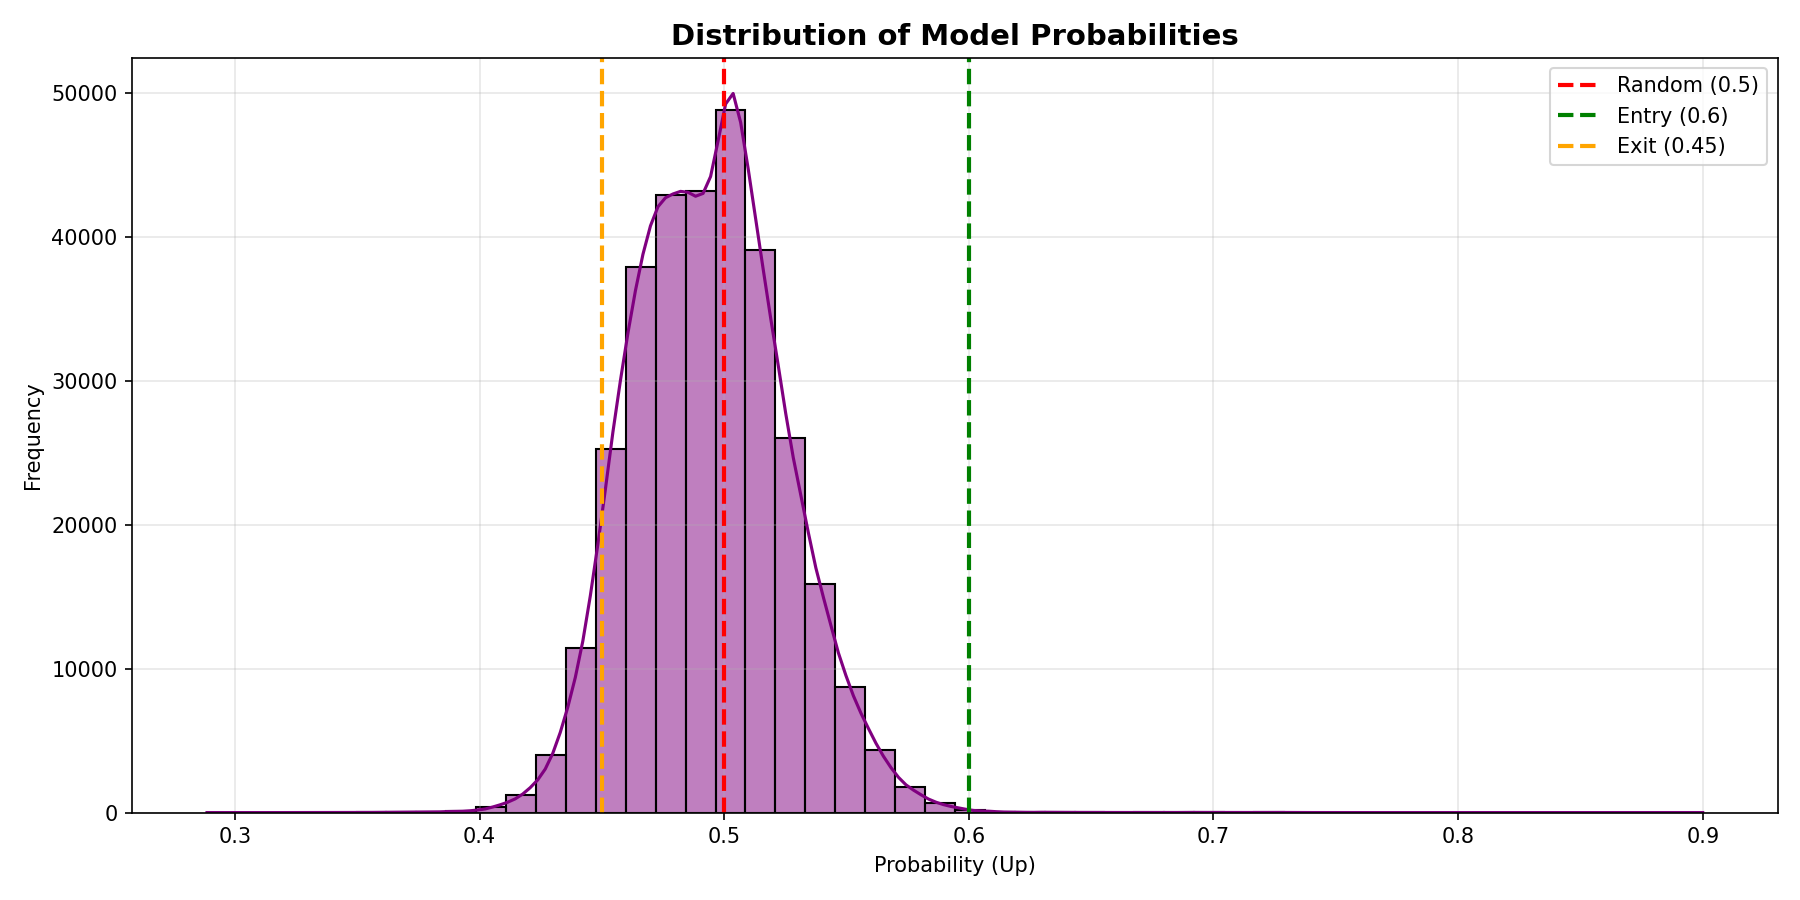
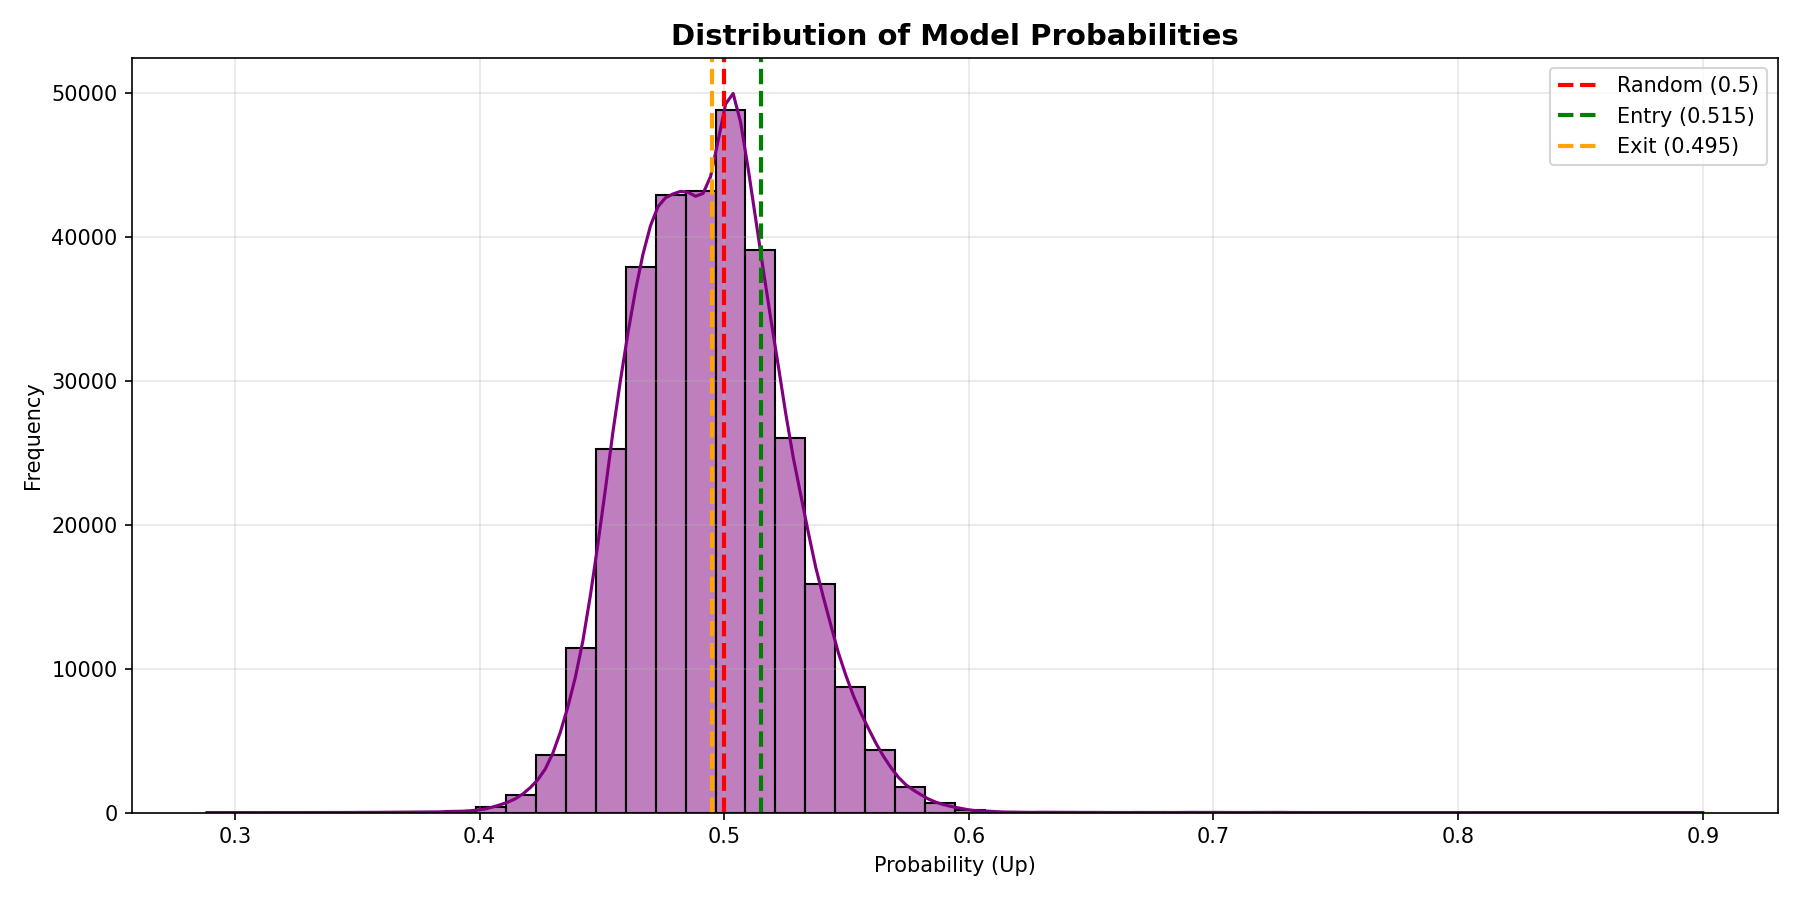
kleine anpassung am threshold

Changed region(s): [[0.9333, 0.1244, 0.9644, 0.1867]]

diff --git a/experiments/GroupExp1/scripts/09_deployment/09_backtesting.py b/experiments/GroupExp1/scripts/09_deployment/09_backtesting.py
@@ -114,7 +114,7 @@ print("\n--- Trading Strategy Setup ---")
 
 # Configuration
 CONFIDENCE_THRESHOLD = 0.515  # Only trade when model is confident
-EXIT_THRESHOLD = 0.49  # Exit early if confidence drops
+EXIT_THRESHOLD = 0.495  # Exit early if confidence drops
 BROKER_FEE = 0.001  # 0.1% per trade
 SPREAD_BPS = 5  # 5 basis points
 SLIPPAGE_BPS = 3  # 3 basis points

diff --git a/experiments/GroupExp1/scripts/09_deployment/09_paper_trading.py b/experiments/GroupExp1/scripts/09_deployment/09_paper_trading.py
@@ -57,7 +57,7 @@ TRADE_AMOUNT = 1000  # USD per trade
 
 # --- THRESHOLDS (Conservative) ---
 CONFIDENCE_THRESHOLD = 0.515  # zwischen 51-52 realistisch
-EXIT_THRESHOLD = 0.49
+EXIT_THRESHOLD = 0.495
 
 # --- RISK MANAGEMENT (ATR-Based) ---
 ATR_WINDOW = 14
